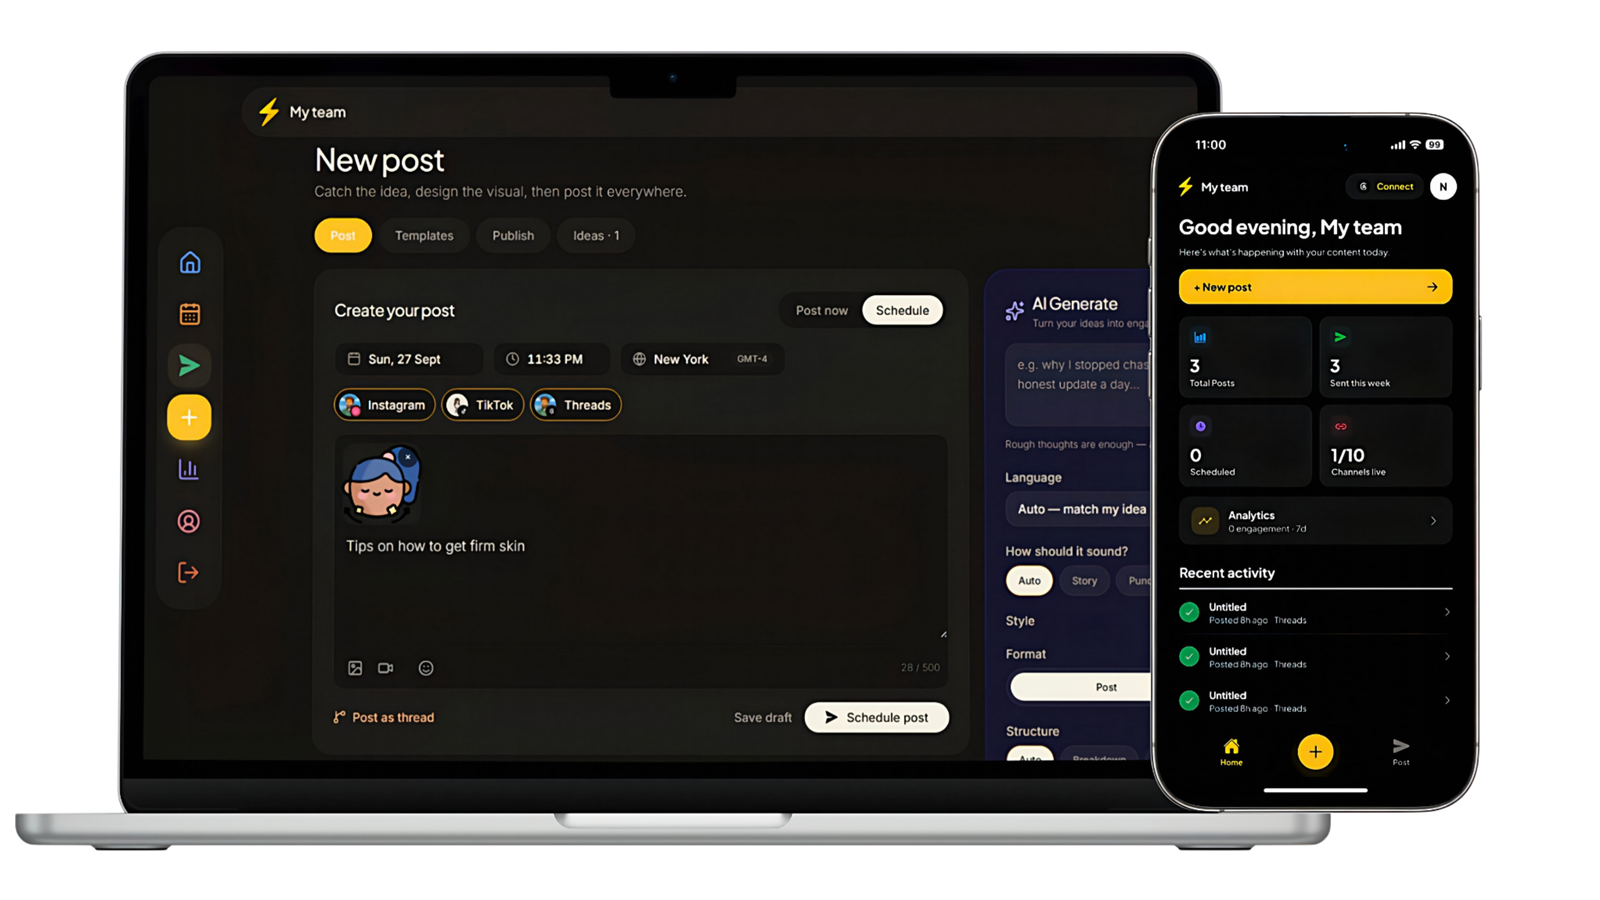
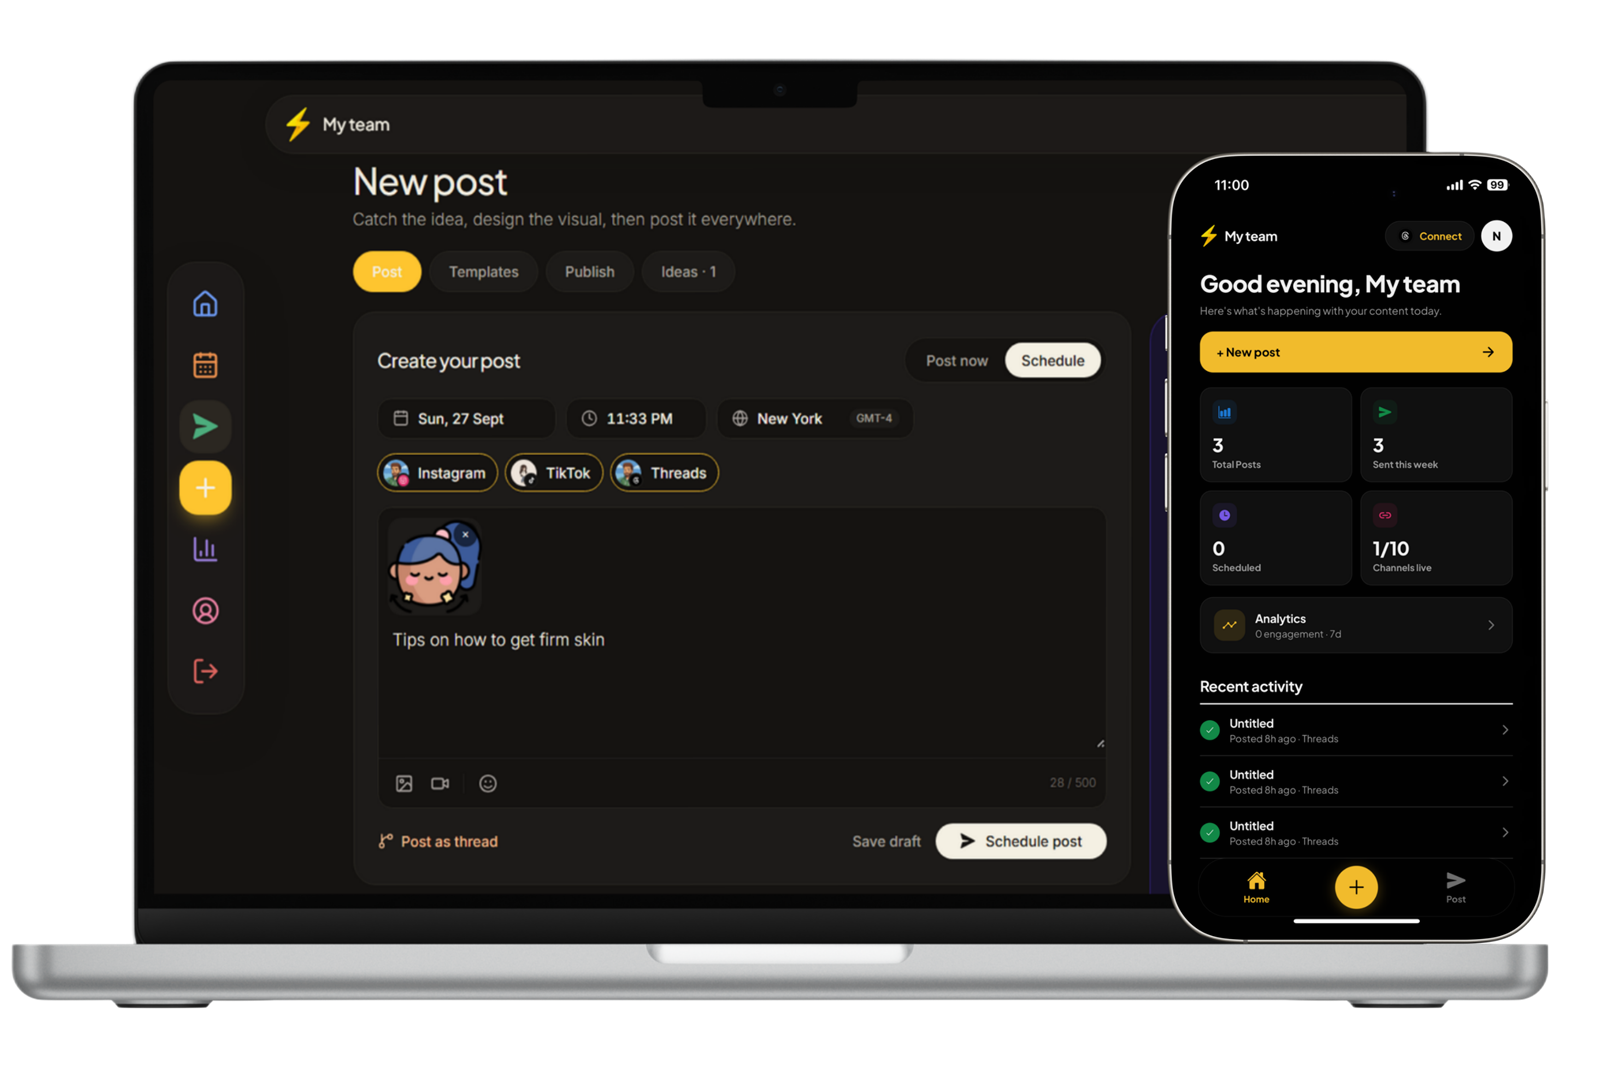
Hero visual swapped to the new devices cutout
Replaces public/hero-devices.png with the BackgroundRemover cutout (1600w) and matches the aspect placeholder.

diff --git a/apps/web/src/components/landing/Hero.tsx b/apps/web/src/components/landing/Hero.tsx
@@ -67,7 +67,7 @@ export default function Hero() {
             src="/hero-devices.png"
             alt="Sosial composer on a laptop beside the Sosial home screen on a phone"
             width={1600}
-            height={900}
+            height={1066}
             priority
             sizes="(max-width: 1024px) 100vw, 60vw"
             className="h-auto w-full [filter:drop-shadow(0_50px_100px_rgba(28,26,20,0.35))] lg:scale-[1.12] lg:origin-center"
